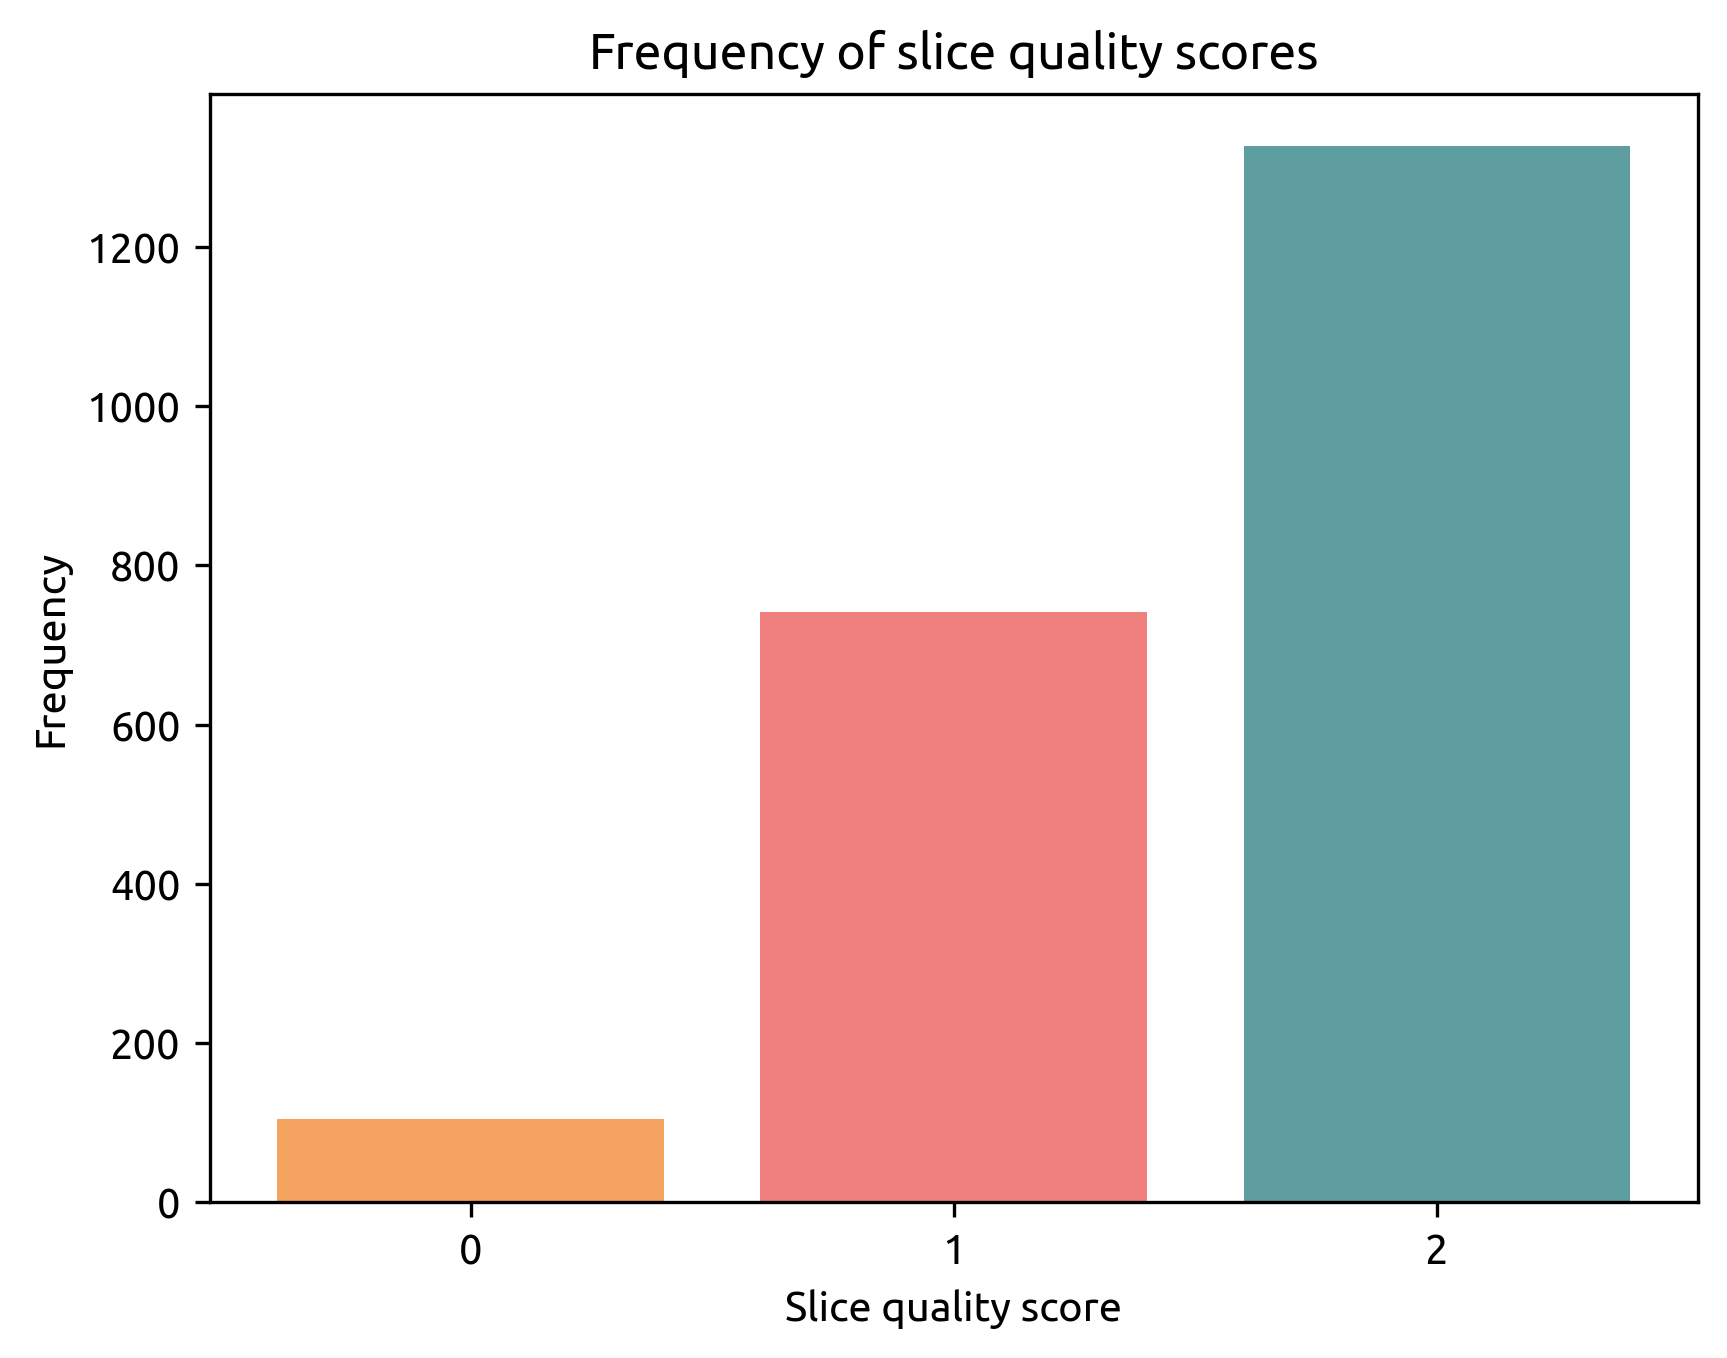
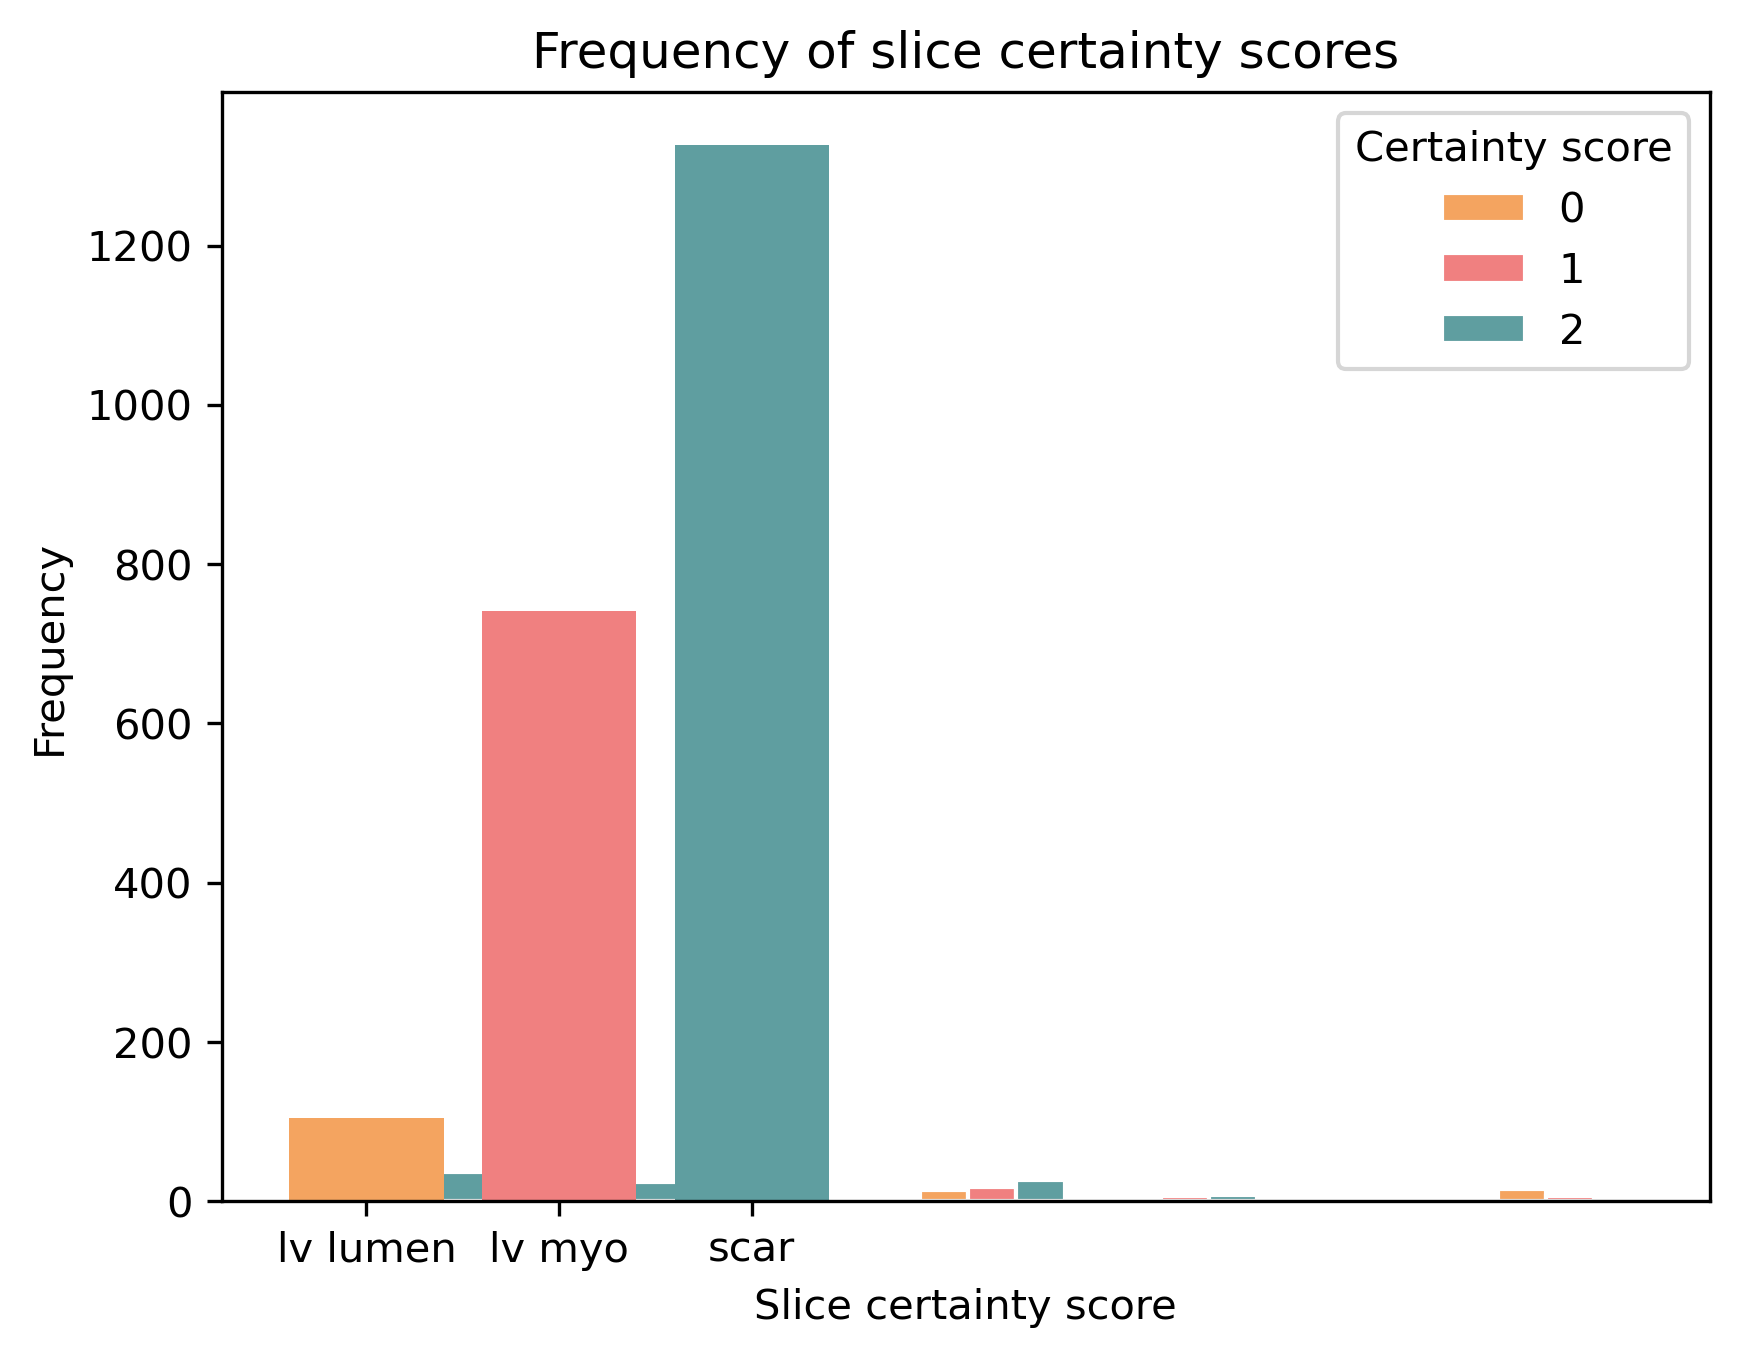
final testing

diff --git a/util.py b/util.py
@@ -1,7 +1,9 @@
 """Various utility functions for working with the data and models."""
 import json
 import os
+import random
 
+from PIL import Image
 import nibabel as nib
 import numpy as np
 from matplotlib import pyplot as plt
@@ -9,6 +11,7 @@ from matplotlib import rcParams
 from scipy.ndimage import rotate
 from tqdm import tqdm
 
+from cropper import Cropper
 from readers import NIIReader, NPYReader
 
 
@@ -36,18 +39,13 @@ def analyse_quality_labels_frequency():
         for x in curr:
             totals[int(x)] += 1
 
-    print(totals)
-
-    rcParams['font.family'] = 'Ubuntu'
-
     axs = plt.axes()
     axs.bar([0, 1, 2], totals, color=["sandybrown", "lightcoral", "cadetblue"])
-    plt.xlabel("Slice quality score")
+    plt.xlabel("Slice certainty score")
     plt.ylabel("Frequency")
     plt.xticks([0, 1, 2])
-    plt.title("Frequency of slice quality scores")
-    plt.savefig('plot/slice_quality_frequency.pdf', bbox_inches='tight')
-    plt.savefig('plot/slice_quality_frequency.png', dpi=300, bbox_inches='tight')
+    plt.title("Frequency of slice certainty scores")
+    plt.savefig('plot/slice_certainty_frequency.png', dpi=300, bbox_inches='tight')
 
 
 def analyse_quality_labels_class_wise():
@@ -68,9 +66,9 @@ def analyse_quality_labels_class_wise():
     }
 
     reader = NPYReader()
-    base_folder = '/media/y4tsu/ml_data/cmr/2D/'
+    base_folder = '/media/y4tsu/ml-fast/cmr/2D/'
 
-    for dataset in ['train', 'val', 'test']:
+    for dataset in ['train', 'val']:
         roots = os.listdir(os.path.join(base_folder, dataset, 'transverse'))
         for root in tqdm(roots):
             labels = [x for x in sorted(os.listdir(os.path.join(base_folder, dataset, 'transverse', root))) if 'label' in x]
@@ -90,7 +88,6 @@ def analyse_quality_labels_class_wise():
 
     # Below portion adapted from https://www.python-graph-gallery.com/11-grouped-barplot
     # set width of bars
-    rcParams['font.family'] = 'Ubuntu'
     bar_width = 0.25
 
     # set heights of bars
@@ -110,12 +107,11 @@ def analyse_quality_labels_class_wise():
     plt.xlabel('Label')
     plt.ylabel('Proportion of label out of all pixels (%)')
     plt.xticks([r + bar_width for r in range(len(q0))], labels)
-    plt.title('Proportion of label representation per quality score')
+    plt.title('Proportion of label representation per certainty score')
 
     # Create legend & Show graphic
-    plt.legend(title='Quality score')
-    plt.savefig('plot/slice_quality_class_wise.pdf', bbox_inches='tight')
-    plt.savefig('plot/slice_quality_class_wise.png', dpi=300, bbox_inches='tight')
+    plt.legend(title='Certainty score')
+    plt.savefig('plot/slice_certainty_class_wise.png', dpi=300, bbox_inches='tight')
 
 
 def rotate_incorrect_orientations():
@@ -124,7 +120,7 @@ def rotate_incorrect_orientations():
     orientation to simplify the learning task.
     """
     reader = NIIReader()
-    base_folder = '/media/y4tsu/ml_data/cmr/3D/test'
+    base_folder = '/media/y4tsu/ml-fast/cmr/3D/test'
 
     roots = sorted(os.listdir(base_folder))
     ax_thickness = []
@@ -250,6 +246,79 @@ def create_3dshallow_dataset(root, depth=3):
                 np.save(os.path.join(root, '3DShallow', g, 'transverse', f'{x}/{x}_{j:03}_label'), label[:, :, j:j + depth])
 
 
+def find_depth_distributions(root):
+    """Get the depths of all images in the dataset and display as a distribution."""
+    depths = []
+    reader = NIIReader()
+
+    for g in ['train', 'val']:
+        for x in tqdm(sorted(os.listdir(os.path.join(root, '3D', g)))):
+            image_fname = os.path.join(root, '3D', g, x, f'{x}_SAX.nii.gz')
+            image = reader.read(image_fname)
+            depths += [image.shape[-1]]
+
+    plt.hist(depths, bins=np.arange(9, 17) - 0.5, rwidth=0.75, color='cadetblue')
+    plt.xlabel('Depth of image (number of slices)')
+    plt.ylabel('Frequency')
+    plt.title('Frequency of image depths')
+
+    # Create legend & Show graphic
+    plt.savefig('/home/y4tsu/Desktop/diss img/depth_frequencies.png', bbox_inches='tight', dpi=300)
+    plt.savefig('/home/y4tsu/Desktop/diss img/depth_frequencies.pdf', bbox_inches='tight')
+    plt.show()
+
+
+def find_widths_distributions(root):
+    """Get the widths of all images (square) in the dataset and display as a distribution."""
+    depths = []
+    reader = NIIReader()
+
+    for g in ['train', 'val']:
+        for x in tqdm(sorted(os.listdir(os.path.join(root, '3D', g)))):
+            image_fname = os.path.join(root, '3D', g, x, f'{x}_SAX.nii.gz')
+            image = reader.read(image_fname)
+            depths += [image.shape[0]]
+
+    plt.hist(depths, bins=np.arange(min(depths), max(depths) + 2) - 0.5, rwidth=1, color='cadetblue')
+    plt.xlabel('Width of image')
+    plt.ylabel('Frequency')
+    plt.title('Frequency of image widths')
+
+    # Create legend & Show graphic
+    plt.savefig('/home/y4tsu/Desktop/diss img/width_frequencies.png', bbox_inches='tight', dpi=300)
+    plt.savefig('/home/y4tsu/Desktop/diss img/width_frequencies.pdf', bbox_inches='tight')
+    plt.show()
+
+
+def find_post_crop_distribution_sizes(root):
+    """Get the average size of the images using manual crop."""
+    val_cropper = Cropper(root, "val", "manual")
+    train_cropper = Cropper(root, "train", "manual")
+    all_bboxes = {**val_cropper.bboxes, **train_cropper.bboxes}
+    widths = []
+    lengths = []
+    for k in all_bboxes:
+        widths += [all_bboxes[k]["bottom"] - all_bboxes[k]["top"] + 16]
+        lengths += [all_bboxes[k]["right"] - all_bboxes[k]["left"] + 16]
+        print(all_bboxes[k])
+    print(widths)
+    print(lengths)
+
+    plt.hist(widths, bins=16, rwidth=0.8, color='cadetblue')
+    plt.xlabel('Width of image after manual crop')
+    plt.ylabel('Frequency')
+    plt.title('Frequency of image widths after applying manual cropping')
+
+    # Create legend & Show graphic
+    plt.savefig('/home/y4tsu/Desktop/diss img/width_cropped_frequencies.png', bbox_inches='tight', dpi=300)
+    plt.savefig('/home/y4tsu/Desktop/diss img/width_cropped_frequencies.pdf', bbox_inches='tight')
+    plt.show()
+
+
 if __name__ == '__main__':
-    # create_2d_dataset('/media/y4tsu/ml_data/cmr')
+    # create_2d_dataset('/media/y4tsu/ml-fast/cmr_fold_5')
     create_3dshallow_dataset('/media/y4tsu/ml-fast/cmr_fold_5', depth=5)
+    # find_widths_distributions('/media/y4tsu/ml-fast/cmr')
+    # search_certainties('/media/y4tsu/ml-fast/cmr')
+    # analyse_quality_labels_class_wise()
+    # analyse_quality_labels_frequency()
